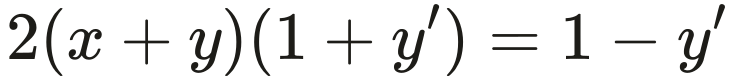
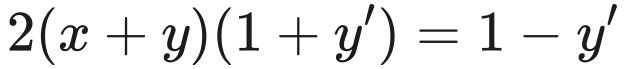
Add files via upload

diff --git a/eq/INDEX-wk3.md b/eq/INDEX-wk3.md
@@ -1,20 +1,20 @@
 | File | Mode | PNG px | Source |
 |---|---|---|---|
-| `wk3-010.png` | inline | 612x89 | `(wiris)` |
-| `wk3-020.png` | inline | 612x89 | `(wiris)` |
-| `wk3-030.png` | block | 706x148 | `2(x+y)^{2-1}\cdot \frac{d}{dx}(x+y)` |
-| `wk3-040.png` | block | 842x85 | `2(x+y)^1\cdot (1x^{1-1}+1y^{1-1}y')` |
-| `wk3-050.png` | block | 554x85 | `2(x+y)^1\cdot(1+y')` |
-| `wk3-060.png` | block | 586x82 | `1x^{1-1}-1y^{1-1}y'+0` |
-| `wk3-070.png` | block | 298x77 | `1-y'+0` |
-| `wk3-080.png` | block | 931x85 | `2(x+y)^1\cdot(1+y')=1-y'+0` |
-| `wk3-090.png` | block | 735x80 | `2(x+y)(1+y')=1-y'` |
-| `wk3-100.png` | inline | 735x76 | `(wiris)` |
-| `wk3-110.png` | inline | 905x73 | `(wiris)` |
-| `wk3-120.png` | inline | 957x73 | `(wiris)` |
-| `wk3-130.png` | inline | 940x76 | `(wiris)` |
-| `wk3-140.png` | inline | 419x106 | `(wiris)` |
-| `wk3-150.png` | inline | 1113x116 | `(wiris)` |
-| `wk3-160.png` | inline | 584x76 | `(wiris)` |
-| `wk3-170.png` | inline | 568x91 | `(wiris)` |
-| `wk3-180.png` | inline | 398x91 | `(wiris)` |
+| `wk3-010.png` | inline | 522x71 | `\(\scriptsize (x + y)^{2} = x - y + 2\)` |
+| `wk3-020.png` | block | 522x73 | `\[\scriptsize (x + y)^{2} = x - y + 2\]` |
+| `wk3-030.png` | block | 602x127 | `\[\scriptsize 2(x+y)^{2-1}\cdot \frac{d}{dx}(x+y)\]` |
+| `wk3-040.png` | block | 718x73 | `\[\scriptsize 2(x+y)^1\cdot (1x^{1-1}+1y^{1-1}y')\]` |
+| `wk3-050.png` | block | 473x73 | `\[\scriptsize 2(x+y)^1\cdot(1+y')\]` |
+| `wk3-060.png` | block | 500x71 | `\[\scriptsize 1x^{1-1}-1y^{1-1}y'+0\]` |
+| `wk3-070.png` | block | 255x67 | `\[\scriptsize 1-y'+0\]` |
+| `wk3-080.png` | block | 793x73 | `\[\scriptsize 2(x+y)^1\cdot(1+y')=1-y'+0\]` |
+| `wk3-090.png` | block | 627x69 | `\[\scriptsize 2(x+y)(1+y')=1-y'\]` |
+| `wk3-100.png` | inline | 627x66 | `\(\scriptsize 2(x + y) (1 + y') = 1 - y'\)` |
+| `wk3-110.png` | inline | 771x64 | `\(\scriptsize 2 x + 2 x y' + 2 y + 2 y y' = 1 - y'\)` |
+| `wk3-120.png` | inline | 816x64 | `\(\scriptsize 2 x y' + 2 y y' + y' = - 2 x - 2 y + 1\)` |
+| `wk3-130.png` | inline | 801x66 | `\(\scriptsize (2 x + 2 y + 1) y' = - 2 x - 2 y + 1\)` |
+| `wk3-140.png` | inline | 358x91 | `\(\scriptsize y' = \frac{- 2 x - 2 y + 1}{2 x + 2 y + 1}\)` |
+| `wk3-150.png` | block | 1206x148 | `\[\scriptsize y' = \frac{- 2(0) - 2(1) + 1}{2(0) + 2(1) + 1} = \frac{- 2 + 1}{2 + 1} = \frac{- 1}{3} = - \frac{1}{3}\]` |
+| `wk3-160.png` | block | 498x66 | `\[\scriptsize y - y_{1} = m(x - x_{1})\]` |
+| `wk3-170.png` | block | 493x126 | `\[\scriptsize y - 1 = - \frac{1}{3}(x - 0)\]` |
+| `wk3-180.png` | block | 349x126 | `\[\scriptsize y = - \frac{1}{3} x + 1\]` |

diff --git a/eq/INDEX-wk2.md b/eq/INDEX-wk2.md
@@ -1,11 +1,11 @@
 | File | Mode | PNG px | Source |
 |---|---|---|---|
-| `wk2-010.png` | inline | 326x99 | `(wiris)` |
-| `wk2-020.png` | inline | 454x110 | `(wiris)` |
-| `wk2-030.png` | inline | 361x65 | `(wiris)` |
-| `wk2-040.png` | inline | 361x65 | `(wiris)` |
-| `wk2-050.png` | inline | 519x116 | `(wiris)` |
-| `wk2-060.png` | inline | 887x110 | `(wiris)` |
-| `wk2-070.png` | inline | 477x103 | `(wiris)` |
-| `wk2-080.png` | inline | 361x65 | `(wiris)` |
-| `wk2-090.png` | inline | 822x132 | `(wiris)` |
+| `wk2-010.png` | block | 352x129 | `\[\scriptsize m = \frac{y_{2} - y_{1}}{x_{2} - x_{1}}\]` |
+| `wk2-020.png` | block | 505x140 | `\[\scriptsize m = \frac{f(x_{2}) - f(x_{1})}{x_{2} - x_{1}}\]` |
+| `wk2-030.png` | inline | 309x57 | `\(\scriptsize x_{2} - x_{1} = h\)` |
+| `wk2-040.png` | inline | 309x57 | `\(\scriptsize x_{2} = x_{1} + h\)` |
+| `wk2-050.png` | block | 609x148 | `\[\scriptsize m = \frac{f(x_{1} + h) - f(x_{1})}{(x_{1} + h) - x_{1}}\]` |
+| `wk2-060.png` | block | 1088x140 | `\[\scriptsize = \frac{f(x_{1} + h) - f(x_{1})}{x_{1} + h - x_{1}} = \frac{f(x_{1} + h) - f(x_{1})}{h}\]` |
+| `wk2-070.png` | block | 558x132 | `\[\scriptsize m = \frac{f(x + h) - f(x)}{h}\]` |
+| `wk2-080.png` | inline | 309x57 | `\(\scriptsize x_{2} - x_{1} = h\)` |
+| `wk2-090.png` | block | 852x137 | `\[\scriptsize \text{derivative} = \lim\limits_{h \to 0} \frac{f(x + h) - f(x)}{h}\]` |

diff --git a/eq/INDEX-expl-mod3.md b/eq/INDEX-expl-mod3.md
@@ -1,3 +1,3 @@
 | File | Mode | PNG px | Source |
 |---|---|---|---|
-| `expl-mod3-010.png` | inline | 260x80 | `\(\displaystyle\sqrt[5]{4x+7}\)` |
+| `expl-mod3-010.png` | inline | 222x69 | `\(\scriptsize \sqrt[5]{4x+7}\)` |
